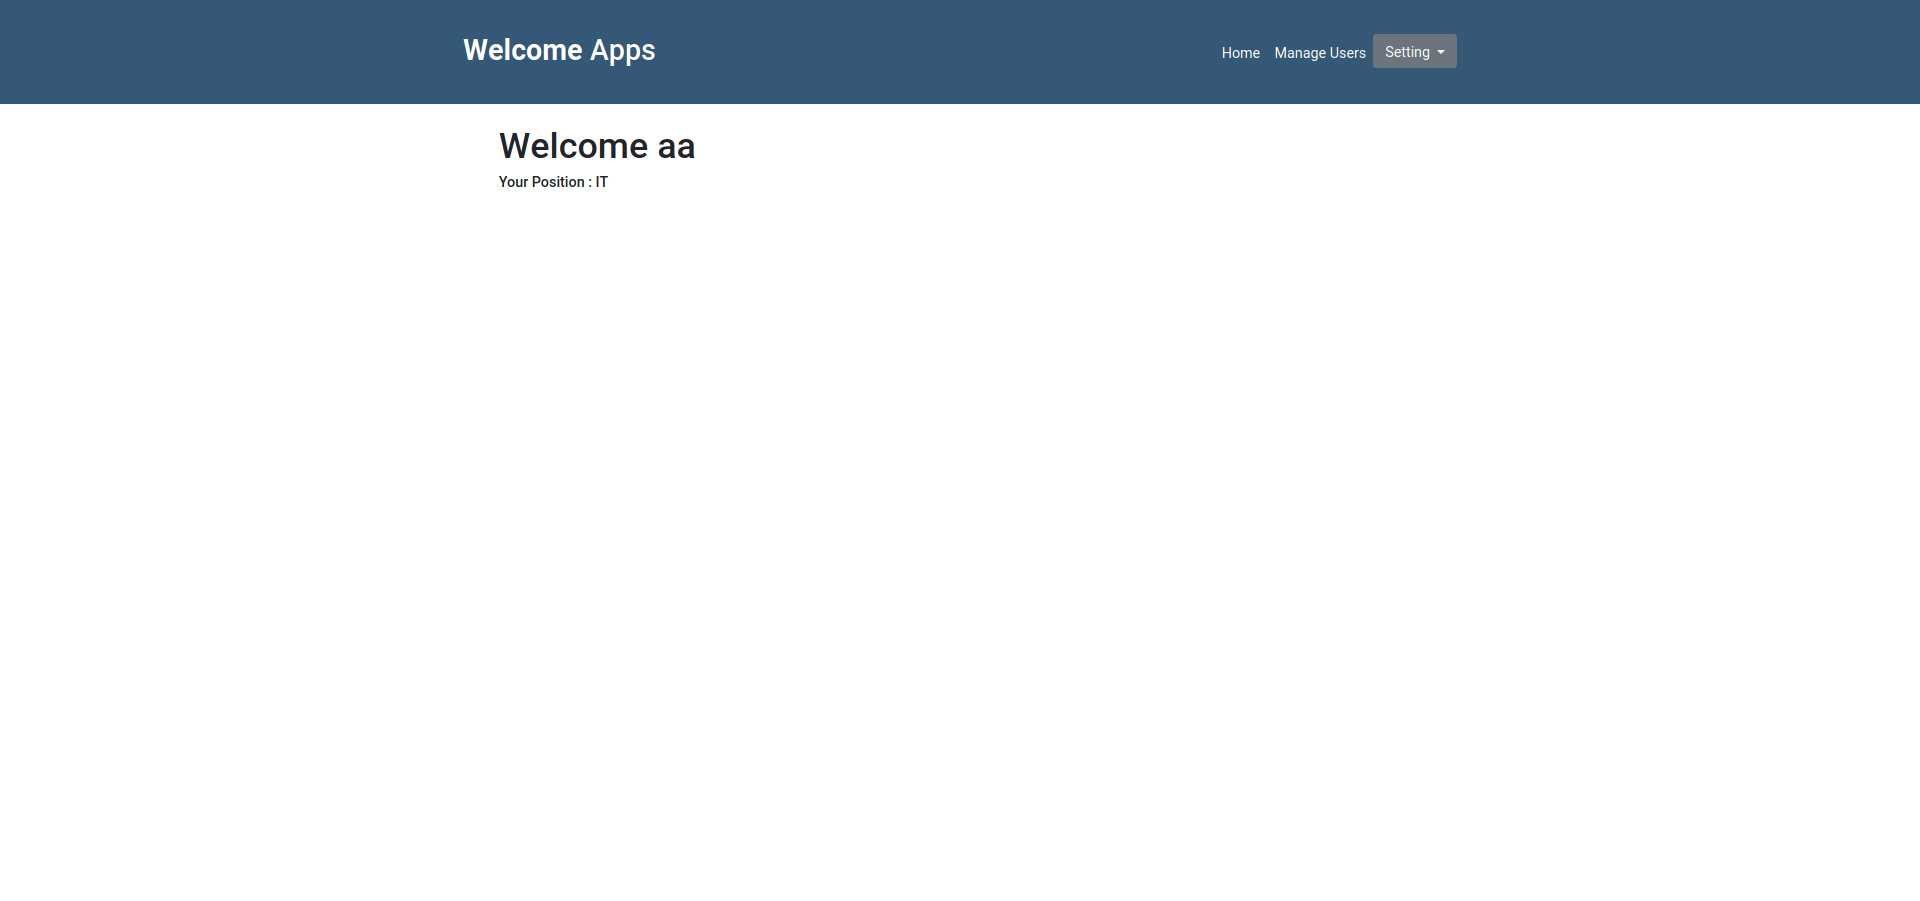
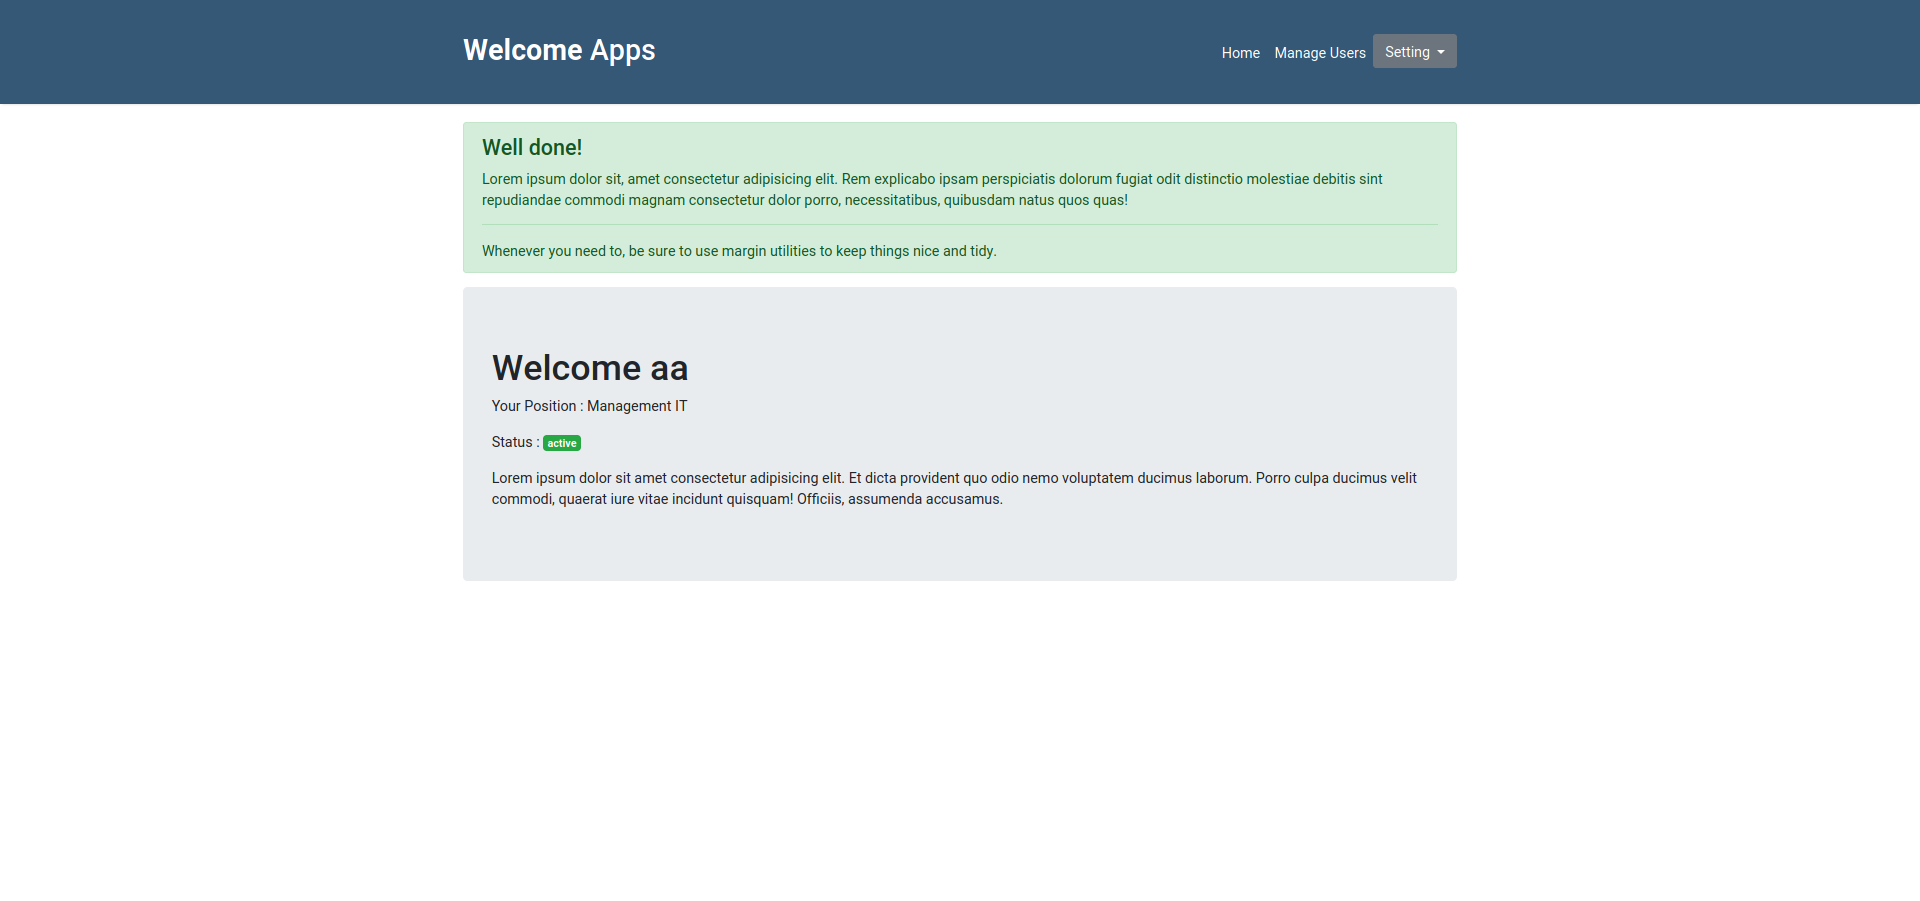
update result

Changed region(s): [[0.2188, 0.1243, 0.7812, 0.3108], [0.25, 0.3729, 0.75, 0.5594]]

diff --git a/public/assets/css/custome.css b/public/assets/css/custome.css
@@ -12,6 +12,7 @@ body {
     background-color: #355876;
     margin-bottom: 20px;
     padding: 30px;
+    box-shadow: 0 2px 2px -2px rgba(0,0,0,.2);
 }
 
 .navbar.transparent.navbar-inverse .navbar-inner {
@@ -42,3 +43,4 @@ body {
 ul {
     list-style-type: none;
 }
+

diff --git a/resources/views/manage_user/index.blade.php b/resources/views/manage_user/index.blade.php
@@ -4,45 +4,49 @@
 <div class="col-sm-12 col-md-12 col-xs-12">
     <div class="jumbotron">
         <h1>Management Users</h1>
-        <p>Lorem, ipsum dolor sit amet consectetur adipisicing elit. Nisi, accusamus animi voluptatibus praesentium excepturi dolore nemo, dolor eveniet vel quasi delectus ipsum nihil quibusdam quisquam accusantium ullam molestiae recusandae iste.</p>
-      </div>
-        <div class="card">
-            <div class="card-header">
-                <h3>
-                    <Strong>Users List</Strong>
-                </h3>
-                <p>all data users with user detail</p>
-            </div>
-
-            <div class="card-body">
-                <table class="table table-bordered-table-stripped table-hover">
-                    <thead>
-                        <tr>
-                            <th>No</th>
-                            <th>Name</th>
-                            <th>Email</th>
-                            <th>Position</th>
-                            <th>Status</th>
-                        </tr>
-                    </thead>
-                    <tbody>
-                        @foreach($user as $item)
-                        <tr>
-                            <td>{{ $loop->iteration }}</td>
-                            <td>{{ ucfirst($item->user->name) }}</td>
-                            <td>{{ $item->user->email }}</td>
-                            <td>{{ $item->position }}</td>
-                            <td>
-                                @if($item->status == 'active')
-                                <span class="badge badge-success">{{$item->status}}</span>
-                                @else
-                                <span class="badge badge-danger">{{$item->status}}</span>
-                            @endif</td>
-                        </tr>
-                        @endforeach
-                    </tbody>
-                </table>
-            </div>
+        <p>Lorem, ipsum dolor sit amet consectetur adipisicing elit. Nisi, accusamus animi voluptatibus praesentium
+            excepturi dolore nemo, dolor eveniet vel quasi delectus ipsum nihil quibusdam quisquam accusantium ullam
+            molestiae recusandae iste.</p>
+    </div>
+    <div class="card">
+        <div class="card-header">
+            <h3>
+                <Strong>Users List</Strong>
+            </h3>
+            <p>all data users with user detail</p>
         </div>
+
+        <div class="card-body">
+            <table class="table table-bordered-table-stripped table-hover">
+                <thead>
+                    <tr>
+                        <th>No</th>
+                        <th>Name</th>
+                        <th>Email</th>
+                        <th>Position</th>
+                        <th>Status</th>
+                    </tr>
+                </thead>
+                <tbody>
+                    @foreach($user as $item)
+                    <tr>
+                        <td>{{ $loop->iteration }}</td>
+                        <td>{{ ucfirst($item->user->name) }}</td>
+                        <td>{{ $item->user->email }}</td>
+                        <td>{{ $item->position }}</td>
+                        <td>
+                            @if($item->status == 'active')
+                            <span class="badge badge-success">{{$item->status}}</span>
+                            @else
+                            <span class="badge badge-danger">{{$item->status}}</span>
+                            @endif</td>
+                    </tr>
+                    @endforeach
+                </tbody>
+            </table>
+        </div>
+    </div>
+    <br>
+    {{ $user->links("pagination::bootstrap-4") }}
 </div>
 @endsection

diff --git a/resources/views/dashboard/home.blade.php b/resources/views/dashboard/home.blade.php
@@ -1,18 +1,20 @@
 @extends('master.index')
 
 @section('content')
-<div class="col-sm-12">
+<div class="col-sm-12 col-md-12 col-xs-12">
     <div class="row">
-        <label for="">
-            <ul>
-                <h1>
-                    Welcome {{  Auth::user()->name }}
-                    <h3>
-                    </h3>
-                </h1>
-                <h6>Your Position : {{$user_status->position}}</h6>
-            </ul>
-        </label>
+        <div class="alert alert-success" role="alert">
+            <h4 class="alert-heading">Well done!</h4>
+            <p>Lorem ipsum dolor sit, amet consectetur adipisicing elit. Rem explicabo ipsam perspiciatis dolorum fugiat odit distinctio molestiae debitis sint repudiandae commodi magnam consectetur dolor porro, necessitatibus, quibusdam natus quos quas!</p>
+            <hr>
+            <p class="mb-0">Whenever you need to, be sure to use margin utilities to keep things nice and tidy.</p>
+          </div>
+        <div class="jumbotron">
+            <h1> Welcome {{  Auth::user()->name }}</h1>
+            <p>Your Position : {{$user_status->position}}</p>
+            <p>Status : <span class="badge bg-success" style="color: white">{{ $user_status->status }}</span></p>
+        <p>Lorem ipsum dolor sit amet consectetur adipisicing elit. Et dicta provident quo odio nemo voluptatem ducimus laborum. Porro culpa ducimus velit commodi, quaerat iure vitae incidunt quisquam! Officiis, assumenda accusamus.</p>
+        </div>
     </div>
 </div>
 @endsection

diff --git a/app/Http/Controllers/User/UserController.php b/app/Http/Controllers/User/UserController.php
@@ -19,7 +19,7 @@ class UserController extends Controller
 
     public function index()
     {
-        $userDetail = UserDetail::with('user')->get();
+        $userDetail = UserDetail::with('user')->paginate(2);
         return view('manage_user.index', [
             'user' => $userDetail,
         ])->render();
